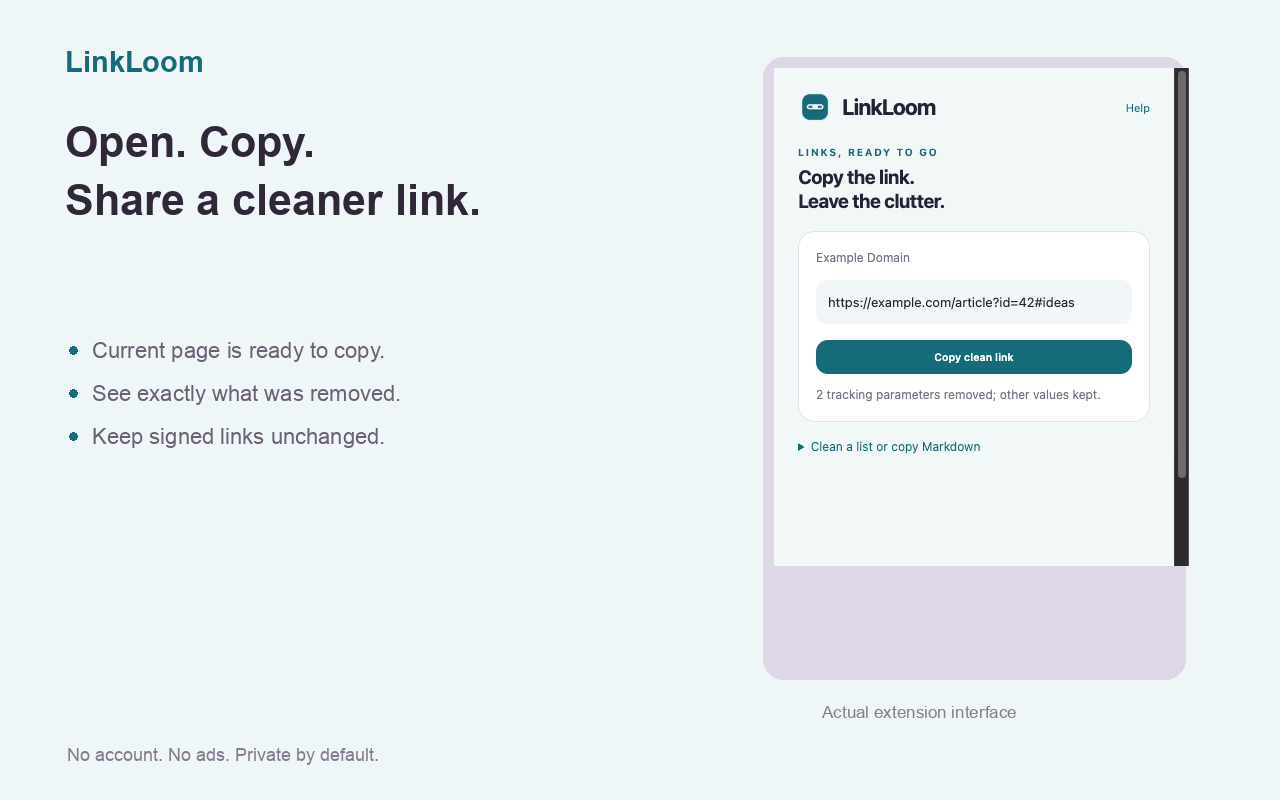
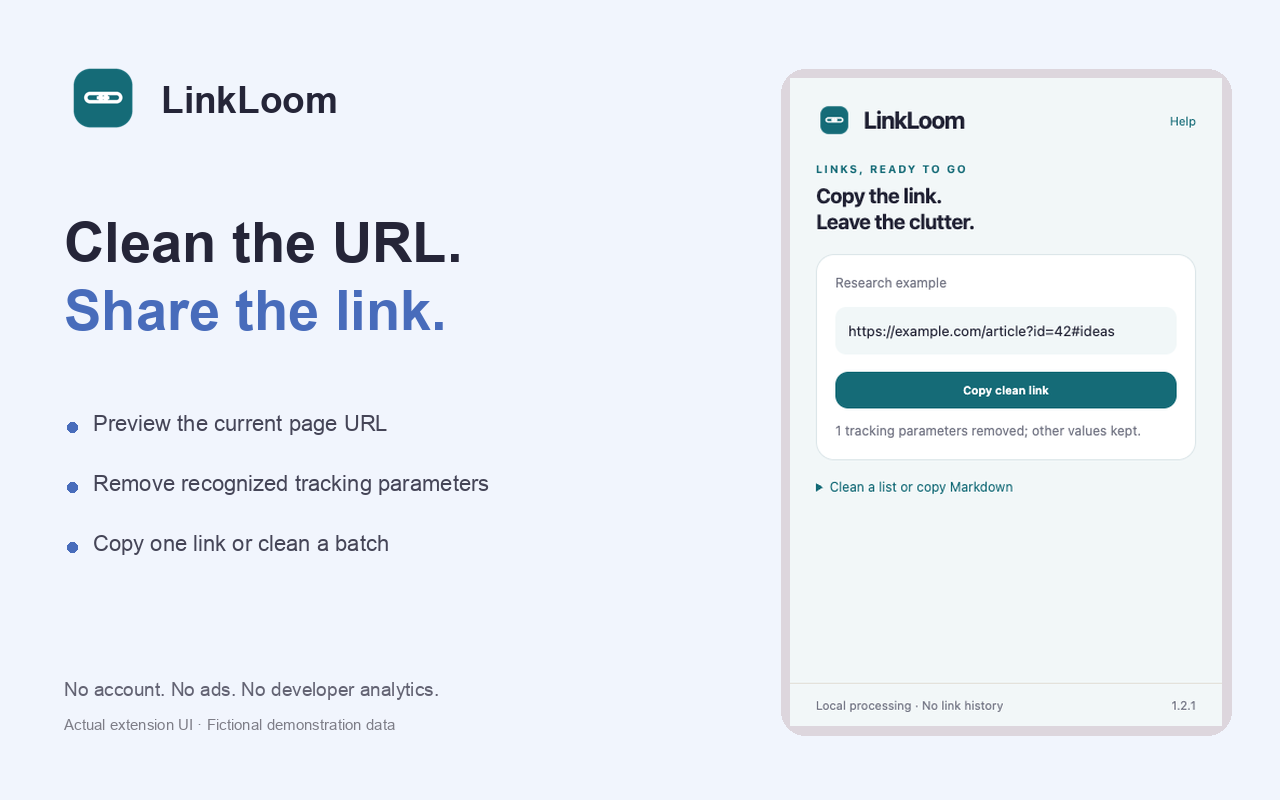
Improve store discovery and add optional honest feedback

diff --git a/extension/popup.html b/extension/popup.html
@@ -1,1 +1,1 @@
-<!doctype html><html lang="en"><head><meta charset="utf-8"><meta name="viewport" content="width=device-width,initial-scale=1"><title>LinkLoom</title><link rel="stylesheet" href="style.css"></head><body><header><div><img src="icons/icon48.png" alt=""><h1>LinkLoom</h1></div><a class="brand-link" href="privacy.html" target="_blank">Help</a></header><main><div class="eyebrow">LINKS, READY TO GO</div><h2>Copy the link.<br>Leave the clutter.</h2><section class="daily-card"><p id="current-info" class="muted">Reading the current page…</p><p id="current-preview" class="preview"></p><button id="quick-copy" class="primary full" disabled>Copy clean link</button><p class="muted" id="current-detail">You choose when to copy. The page is never changed.</p></section><details id="batch"><summary>Clean a list or copy Markdown</summary><label for="url">One link or one link per line</label><textarea id="url" placeholder="https://example.com/article?utm_source=email" spellcheck="false" style="min-height:100px"></textarea><div class="row" style="margin-top:9px"><button id="current">Current tab</button><button id="clean" class="primary">Clean links</button></div><section id="result" hidden><div class="row result-summary"><strong id="count"></strong><span id="link-count" class="muted"></span></div><div id="results" class="results"></div><label for="format">Copy format</label><select id="format"><option value="plain">Plain URLs</option><option value="markdown">Markdown list</option></select><div class="row" style="margin-top:10px"><button id="copy" class="primary">Copy results</button><button id="export">Export text</button></div><textarea id="output" readonly aria-label="Formatted cleaned links" spellcheck="false" style="min-height:70px;margin-top:10px"></textarea></section></details><p id="status" class="status" role="status" aria-live="polite"></p></main><footer><span>Local processing · No link history</span><span>1.2.0</span></footer><script type="module" src="popup.js"></script></body></html>
+<!doctype html><html lang="en"><head><meta charset="utf-8"><meta name="viewport" content="width=device-width,initial-scale=1"><title>LinkLoom</title><link rel="stylesheet" href="style.css"></head><body><header><div><img src="icons/icon48.png" alt=""><h1>LinkLoom</h1></div><a class="brand-link" href="privacy.html" target="_blank">Help</a></header><main><div class="eyebrow">LINKS, READY TO GO</div><h2>Copy the link.<br>Leave the clutter.</h2><section class="daily-card"><p id="current-info" class="muted">Reading the current page…</p><p id="current-preview" class="preview"></p><button id="quick-copy" class="primary full" disabled>Copy clean link</button><p class="muted" id="current-detail">You choose when to copy. The page is never changed.</p></section><details id="batch"><summary>Clean a list or copy Markdown</summary><label for="url">One link or one link per line</label><textarea id="url" placeholder="https://example.com/article?utm_source=email" spellcheck="false" style="min-height:100px"></textarea><div class="row" style="margin-top:9px"><button id="current">Current tab</button><button id="clean" class="primary">Clean links</button></div><section id="result" hidden><div class="row result-summary"><strong id="count"></strong><span id="link-count" class="muted"></span></div><div id="results" class="results"></div><label for="format">Copy format</label><select id="format"><option value="plain">Plain URLs</option><option value="markdown">Markdown list</option></select><div class="row" style="margin-top:10px"><button id="copy" class="primary">Copy results</button><button id="export">Export text</button></div><textarea id="output" readonly aria-label="Formatted cleaned links" spellcheck="false" style="min-height:70px;margin-top:10px"></textarea></section></details><p id="status" class="status" role="status" aria-live="polite"></p></main><footer><span>Local processing · No link history</span><span>1.2.1</span></footer><script type="module" src="popup.js"></script></body></html>

diff --git a/extension/privacy.html b/extension/privacy.html
@@ -1,1 +1,1 @@
-<!doctype html><html lang="en"><meta charset="utf-8"><meta name="viewport" content="width=device-width,initial-scale=1"><title>Privacy and help</title><link rel="stylesheet" href="style.css"><body class="library"><header><h1>Privacy and help</h1></header><main><h2>Stored on your device</h2><p>This extension does not send your data to a developer server. It contains no analytics, advertising, accounts, or remote executable code.</p><p>Saved content uses Chrome local storage. Clearing extension data or uninstalling removes it. Chrome and its Web Store operate under Google's separate policies.</p><h2>How this product accesses data</h2><p>URLs are held in popup memory only and are not persistently stored. Links are placed on the clipboard or in a downloaded text file only at your request.</p><h2>Control your data</h2><p>Use the export and delete controls where provided. Exported files may contain private URLs or notes, so store them somewhere you trust.</p><h2>Support</h2><p>Use the support contact on this extension's Chrome Web Store listing to report a bug. Include the extension version and steps to reproduce. Do not include passwords, private URLs, or sensitive notes.</p><h2>Remove the extension</h2><p>Open chrome://extensions, find this extension, and choose Remove.</p><a href="popup.html">Back to the app</a></main></body></html>
+<!doctype html><html lang="en"><meta charset="utf-8"><meta name="viewport" content="width=device-width,initial-scale=1"><title>Privacy and help</title><link rel="stylesheet" href="style.css"><body class="library"><header><h1>Privacy and help</h1></header><main><h2>Stored on your device</h2><p>This extension does not send your data to a developer server. It contains no analytics, advertising, accounts, or remote executable code.</p><p>Saved content uses Chrome local storage. Clearing extension data or uninstalling removes it. Chrome and its Web Store operate under Google's separate policies.</p><h2>How this product accesses data</h2><p>URLs are held in popup memory only and are not persistently stored. Links are placed on the clipboard or in a downloaded text file only at your request.</p><h2>Control your data</h2><p>Use the export and delete controls where provided. Exported files may contain private URLs or notes, so store them somewhere you trust.</p><h2>Support</h2><p>Use the support contact on this extension's Chrome Web Store listing to report a bug. Include the extension version and steps to reproduce. Do not include passwords, private URLs, or sensitive notes.</p><h2>Remove the extension</h2><p>Open chrome://extensions, find this extension, and choose Remove.</p><a href="popup.html">Back to the app</a><h2>Share feedback</h2><p>Share an honest review of your experience. Reviews are optional and do not unlock features.</p><p><a href="https://chromewebstore.google.com/detail/pkodiocfdnhpbpmjdjlidbhedfkdjnnh/reviews" target="_blank" rel="noopener noreferrer">Write a Chrome Web Store review</a></p></main></body></html>

diff --git a/store/launch.md b/store/launch.md
@@ -1,0 +1,28 @@
+# LinkLoom launch material
+
+## Community post
+
+Title: Share a cleaner link in one click.
+
+I built LinkLoom, a Chrome extension for a simpler everyday browsing workflow.
+
+LinkLoom removes recognized tracking parameters from URLs before you share them. Open the extension on a web page, review the cleaned link, and copy it into a chat, email, or document.
+
+What it does:
+- Preview the current page’s clean URL
+- Remove recognized tracking parameters
+- Clean up to 100 pasted links at once
+
+Install: https://chromewebstore.google.com/detail/pkodiocfdnhpbpmjdjlidbhedfkdjnnh
+
+I am the developer. I would appreciate feedback on the workflow, confusing steps, or missing essentials. Please share your own experience; there is no reward or required rating.
+
+## Demo caption
+
+Share a cleaner link in one click. LinkLoom removes recognized tracking parameters from URLs before you share them. Open the extension on a web page, review the cleaned link, and copy it into a chat, email, or document.
+
+Install: https://chromewebstore.google.com/detail/pkodiocfdnhpbpmjdjlidbhedfkdjnnh
+
+## Distribution
+
+Share in relevant communities only where their rules permit developer posts. Use the guided demo in `store/demo/`, with its fictional-data and accelerated-timer disclosures where applicable. These posts are prepared drafts; they have not been posted.

diff --git a/store/submission.md b/store/submission.md
@@ -1,9 +1,3 @@
 # Store release status
 
-Checked 2026-10-16. The existing item remains **1.1.0 — Pending review**. Version **1.2.0 has not been uploaded or submitted**.
-
-The publisher dashboard explicitly rejected cancellation of the previous review with: “Cannot cancel because you’ve reached the daily limit.” Upload new package remains disabled while the existing submission is pending. The dashboard did not provide a reset time.
-
-The 1.2.0 implementation, listing, media, reviewer instructions and validated ZIP are available in this repository and its GitHub release. To finish the update after cancellation becomes available: cancel the existing review, upload the 1.2.0 ZIP, replace the listing/media and permission explanations with the prepared files, and submit for review with automatic publication after approval. Verify the stored version and images before reporting completion.
-
-Existing store metadata describes 1.1.0 until replacement succeeds. Prepared assets are not published store content. No duplicate store item was created.
+Updated 2026-10-21. Version 1.2.1 has been prepared and uploaded to the existing item. The earlier 1.2.0 update was superseded. Current submission evidence is recorded in `submission-2026-10-21.json`; public availability depends on Google’s review.

diff --git a/store/asset-notes.md b/store/asset-notes.md
@@ -1,5 +1,5 @@
-# Store assets
+# Store artwork provenance
 
-Promotional artwork uses the extension's original vector and geometric mascot system. Overview images combine promotional typography with an actual isolated-browser UI capture. Capture content uses fictional example domains and local data. No user account information is included.
+Overview and marquee images combine explanatory typography with an actual isolated-browser UI capture using fictional example data. The capture comes from `store/popup-400x600.png`, generated from version 1.2.1 in a disposable browser profile. Promotional tiles use the existing mascot and geometric icon system. No personal account or workstation information is included.
 
-Required assets: RGB PNG overview at 1280×800 and small promotional tile at 440×280. Optional marquee: RGB PNG at 1400×560. Icons use RGBA PNG at 16, 32, 48, and 128 pixels.
+All uploaded artwork is RGB PNG at the requested store dimensions. Guided demo frames and completion acceleration disclosures remain in `store/demo/README.md`.

diff --git a/store/listing.md b/store/listing.md
@@ -1,18 +1,18 @@
 # LinkLoom
 
-## Category
+## Store fields
 
-Tools
-
-## Language
-
-English
+- Title: LinkLoom: Clean URLs & Remove Trackers
+- Summary: Clean URLs before sharing. Remove recognized tracking parameters, preview the result, and copy one link or a batch.
+- Category: Tools
+- Language: English
 
 ## Description
 
-Open. Copy. Share a cleaner link.
+LinkLoom removes recognized tracking parameters from URLs before you share them. Open the extension on a web page, review the cleaned link, and copy it into a chat, email, or document.
 
-The page you are on is already ready to share. Open LinkLoom, review the cleaned URL, and click Copy clean link. No paste step or setup required.
+GET STARTED
+Open LinkLoom on the page you want to share. Review the URL and click Copy clean link. Expand the batch tool when you have several links.
 
 FEATURES
 - Preview the active page URL immediately when opening the extension.

diff --git a/README.md b/README.md
@@ -22,6 +22,10 @@ The page you are on is already ready to share. Open LinkLoom, review the cleaned
 
 LinkLoom does not visit destinations, expand short URLs, or guarantee that all tracking is removed. It preserves unrelated query values and fragments. Invalid links are excluded from copy/export results. Links with embedded credentials are rejected. Always review important links before sharing.
 
+## Feedback
+
+The help page links to honest Chrome Web Store reviews. No feedback history is stored.
+
 ## Development
 
 Load `extension/` unpacked in Chrome Developer mode. Run `npm test` and `npm run package`. There is no runtime dependency or build step.

diff --git a/store/reviewer-instructions.md b/store/reviewer-instructions.md
@@ -1,5 +1,5 @@
 # Reviewer instructions
 
-Version 1.2.0. No account required.
+Version 1.2.1. No account required.
 
 Open an HTTP page with ?id=42&utm_source=email. Invoke LinkLoom using the toolbar action. Confirm id=42 stays and utm_source disappears. Click Copy clean link and paste into a text field. Open batch tools for manual paste, signed-link checks and Markdown.

diff --git a/store/release-1.2.1.md b/store/release-1.2.1.md
@@ -1,0 +1,5 @@
+# LinkLoom 1.2.1
+
+Prepared on 2026-10-21. Adds clearer store metadata and preserves the 1.2.0 quick-start workflow. The help page includes an optional honest-review link; URL data remains ephemeral and no permissions were added.
+
+Store submission status will be recorded separately after dashboard verification.
